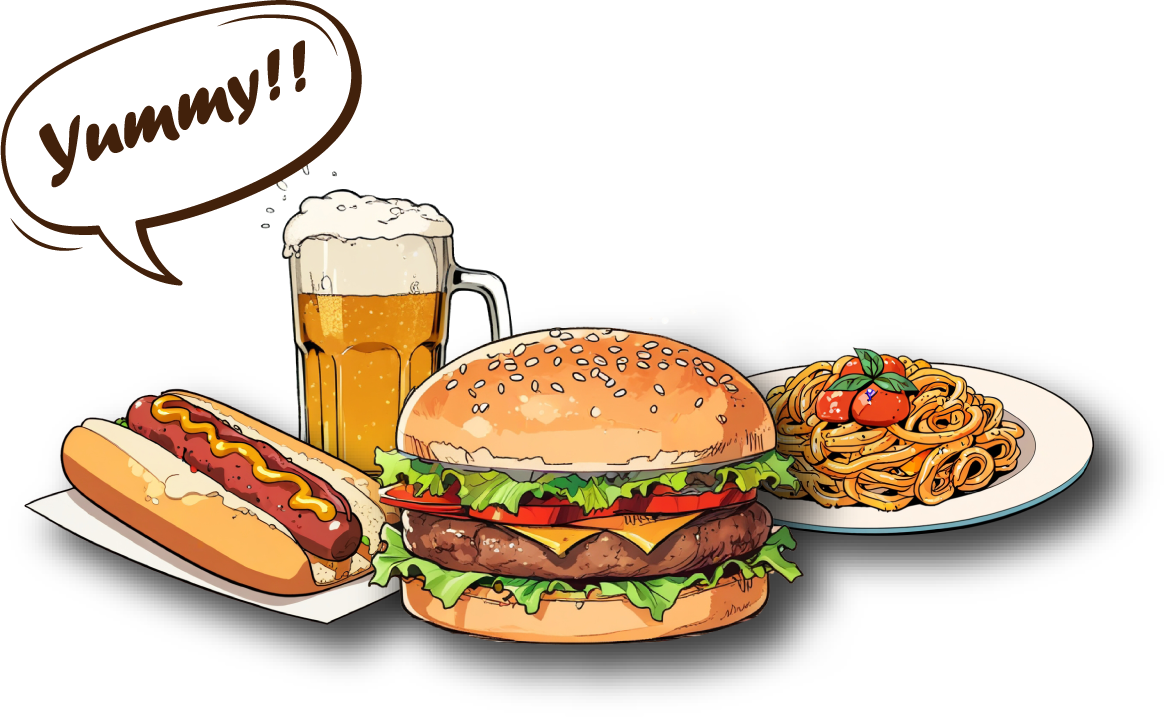
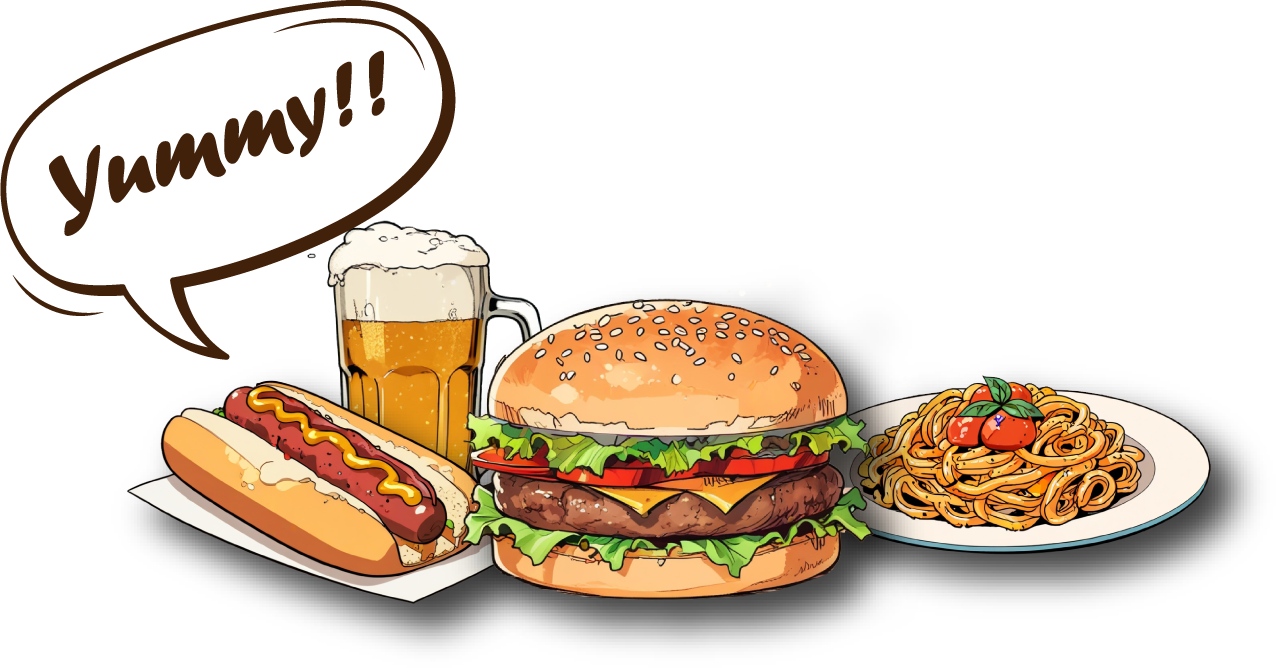
調整前鏡頭框的尺寸

diff --git a/src/model/pageState.js b/src/model/pageState.js
@@ -694,14 +694,14 @@ function connectWebCam(mindarThree) {
     const logoMaterial = new THREE.MeshBasicMaterial({ map: texture, transparent: true, toneMapped: false });
     frame_logo = new THREE.Mesh(logoGeometry, logoMaterial);
     if (window.innerWidth > 600) {
-      frame_logo.scale.set(0.3 * window.innerWidth / texture.image.width, 0.3 * window.innerWidth / texture.image.width, 0.3 * window.innerWidth / texture.image.width)
+      frame_logo.scale.set(0.35 * window.innerWidth / texture.image.width, 0.35 * window.innerWidth / texture.image.width, 0.35 * window.innerWidth / texture.image.width)
       // 调整位置以放置在左上角
       // 半張logo寬度 = texture.image.width * 0.3 *window.innerWidth / texture.image.wid /2
-      frame_logo.position.set(texture.image.width * 0.2 * window.innerWidth / texture.image.width / 2 + 0.1 * window.innerWidth, window.innerHeight * 0.92, 1);
+      frame_logo.position.set(texture.image.width * 0.2 * window.innerWidth / texture.image.width / 2 + 0.11 * window.innerWidth, window.innerHeight * 0.91, 1);
     } else {
-      frame_logo.scale.set(0.4 * window.innerWidth / texture.image.width, 0.4 * window.innerWidth / texture.image.width, 0.4 * window.innerWidth / texture.image.width)
+      frame_logo.scale.set(0.45* window.innerWidth / texture.image.width, 0.45* window.innerWidth / texture.image.width, 0.4 * window.innerWidth / texture.image.width)
       // 调整位置以放置在左上角
-      frame_logo.position.set(window.innerWidth / 4 - 0, window.innerHeight - 70, 1);
+      frame_logo.position.set(window.innerWidth / 4 +10, window.innerHeight - 70, 1);
     }
     frame_logo.visible = false;
     orthoScene.add(frame_logo);
@@ -737,32 +737,55 @@ function connectWebCam(mindarThree) {
 
 
   });
-
+  //* 前鏡頭的背景橫幅
   loader.load('/image/frame_down.png', (texture) => {
     texture.encoding = THREE.sRGBEncoding;
     const grassGeometry = new THREE.PlaneGeometry(texture.image.width, texture.image.height);
     const grassMaterial = new THREE.MeshBasicMaterial({ map: texture, transparent: true, toneMapped: false });
 
     frame_down = new THREE.Mesh(grassGeometry, grassMaterial);
-    // 設定大小
-    frame_down.scale.set(1 * window.innerWidth / texture.image.width, 1.15 * window.innerWidth / texture.image.width, 1 * window.innerWidth / texture.image.width)
-    // 调整位置以放置在左上角
-    frame_down.position.set(window.innerWidth / 2, texture.image.height * window.innerWidth / texture.image.width / 2, 2);
+    console.log(texture.image.height,'高度',texture.image.height * window.innerWidth / texture.image.width / 2)
+    console.log(texture.image.width)
+    console.log(window.innerWidth)
+    console.log(texture.image.height * window.innerWidth / texture.image.width )
+   
+    if (window.innerWidth > 600) {
+      // 設定大小
+      frame_down.scale.set(1 * window.innerWidth / texture.image.width, 1.15 * window.innerWidth / texture.image.width, 1 * window.innerWidth / texture.image.width)
+      // 调整位置以放置在左上角
+      frame_down.position.set(window.innerWidth / 2, texture.image.height * window.innerWidth / texture.image.width / 2, 2);
+    } else {
+     // 設定大小
+     frame_down.scale.set(1 * window.innerWidth / texture.image.width, 1.15 * window.innerWidth / texture.image.width, 1 * window.innerWidth / texture.image.width)
+     console.log(frame_down.position)
+     // 调整位置以放置在左上角
+     frame_down.position.set(window.innerWidth / 2, texture.image.height * window.innerWidth / texture.image.width / 2, 2);
+    }
+  
     //新增到2D場景
     frame_down.visible = false;
     orthoScene.add(frame_down);
 
   });
+  //* 前鏡頭的下方食物
   loader.load('/image/frame_food.png', (texture) => {
     texture.encoding = THREE.sRGBEncoding;
     const grassGeometry = new THREE.PlaneGeometry(texture.image.width, texture.image.height);
     const grassMaterial = new THREE.MeshBasicMaterial({ map: texture, transparent: true, toneMapped: false });
 
     frame_food = new THREE.Mesh(grassGeometry, grassMaterial);
-    // 設定大小
-    frame_food.scale.set(1 * window.innerWidth / texture.image.width, 1.15 * window.innerWidth / texture.image.width, 1 * window.innerWidth / texture.image.width)
-    // 调整位置以放置在左上角
-    frame_food.position.set(window.innerWidth / 2, texture.image.height * window.innerWidth / texture.image.width / 2, 2);
+    if (window.innerWidth > 600) {
+       // 設定大小
+       frame_food.scale.set(0.9 * window.innerWidth / texture.image.width, 0.9* window.innerWidth / texture.image.width, 1 * window.innerWidth / texture.image.width)
+       // 调整位置以放置在左上角
+       frame_food.position.set(window.innerWidth / 2, texture.image.height * window.innerWidth / texture.image.width / 2.2 - 20, 2);
+    } else {
+     // 設定大小
+     frame_food.scale.set(0.95 * window.innerWidth / texture.image.width, 0.95* window.innerWidth / texture.image.width, 1 * window.innerWidth / texture.image.width)
+     // 调整位置以放置在左上角
+     frame_food.position.set(window.innerWidth / 2, texture.image.height * window.innerWidth / texture.image.width / 2.2-8, 2);
+    }
+
     //新增到2D場景
     frame_food.visible = false;
     orthoScene.add(frame_food);
